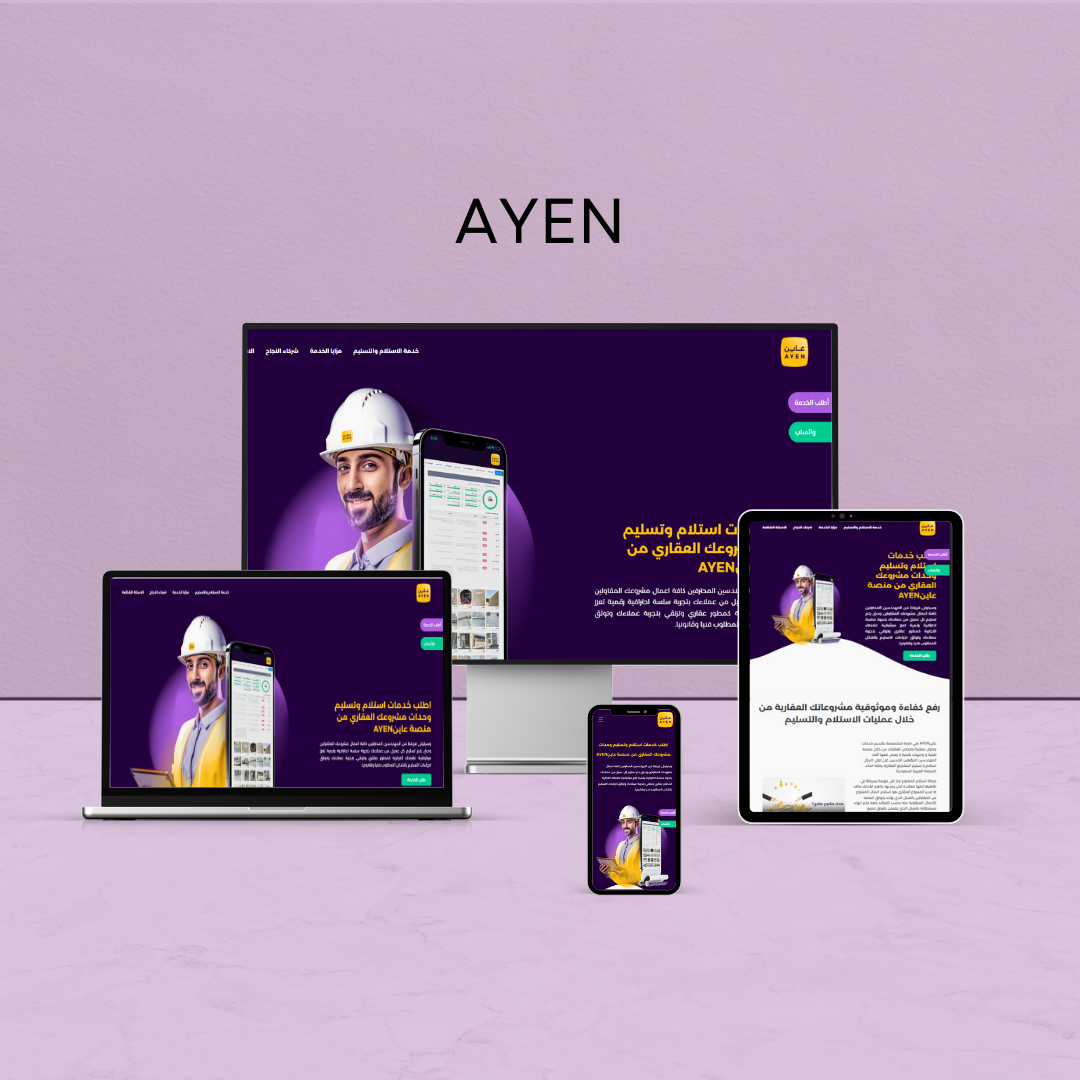
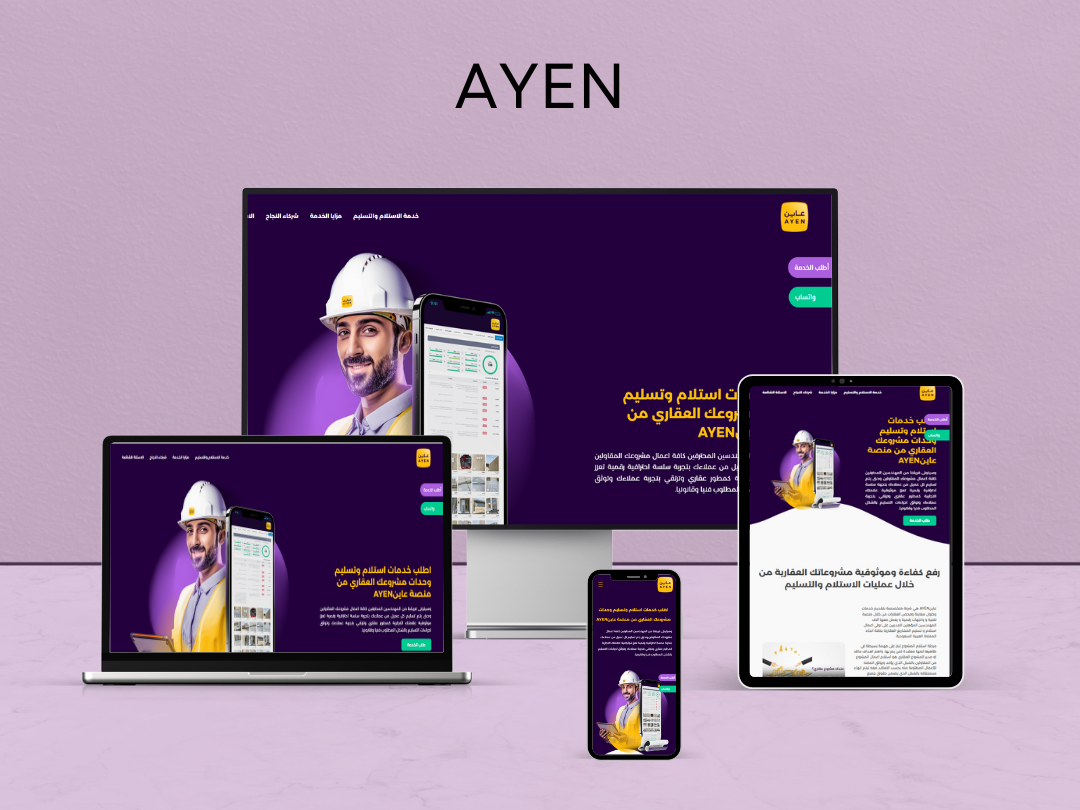
ayen landing page

Changed region(s): [[0.0611, 0.1852, 1.0, 0.9568], [0.4278, 0.0617, 0.5806, 0.1543], [0.0, 0.6173, 0.0917, 0.7099]]

diff --git a/index.html b/index.html
@@ -113,7 +113,7 @@
     <p class="section_header">Projects</p>
     <div class="projects_Container">
       <div class="project_card">
-        <img src="./imgs/hema.png" alt="The First full stack website ,I created using HML,CSS and JavaScript for frontend, In the side of Back end I used Node js ,express and mongo db as well as mongoose db, I learned I a lot of things such as how build RESTful API,CRUD operations on monogo db and fitch date in front end using AXIOS.">
+        <img src="./imgs/ayen.png" alt="The First full stack website ,I created using HML,CSS and JavaScript for frontend, In the side of Back end I used Node js ,express and mongo db as well as mongoose db, I learned I a lot of things such as how build RESTful API,CRUD operations on monogo db and fitch date in front end using AXIOS.">
       <div class="project_info">
         <h3>Ayen</h3>
         <p>
